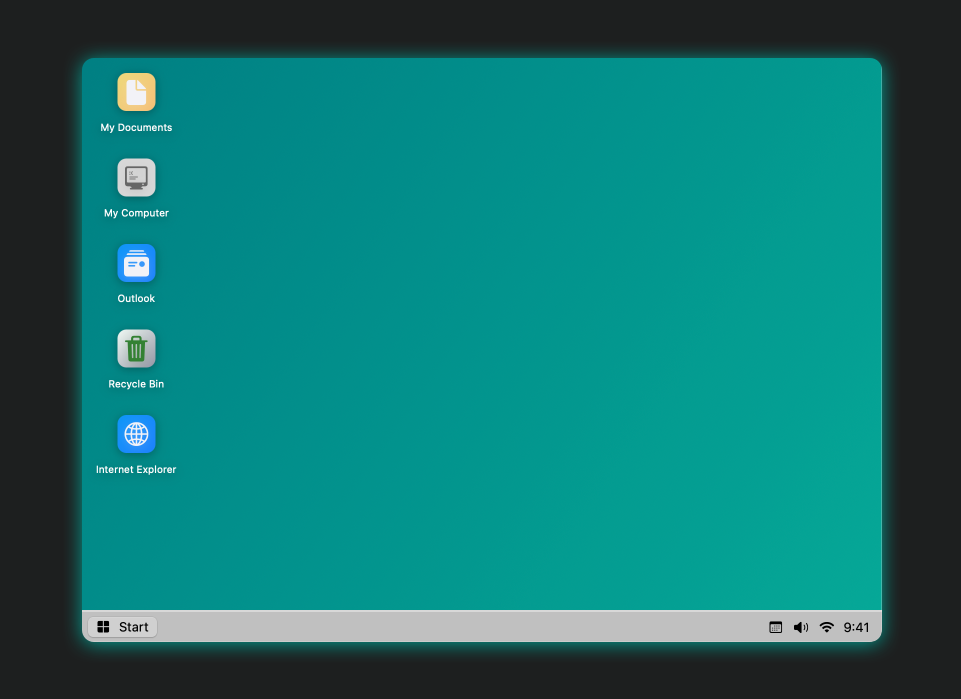
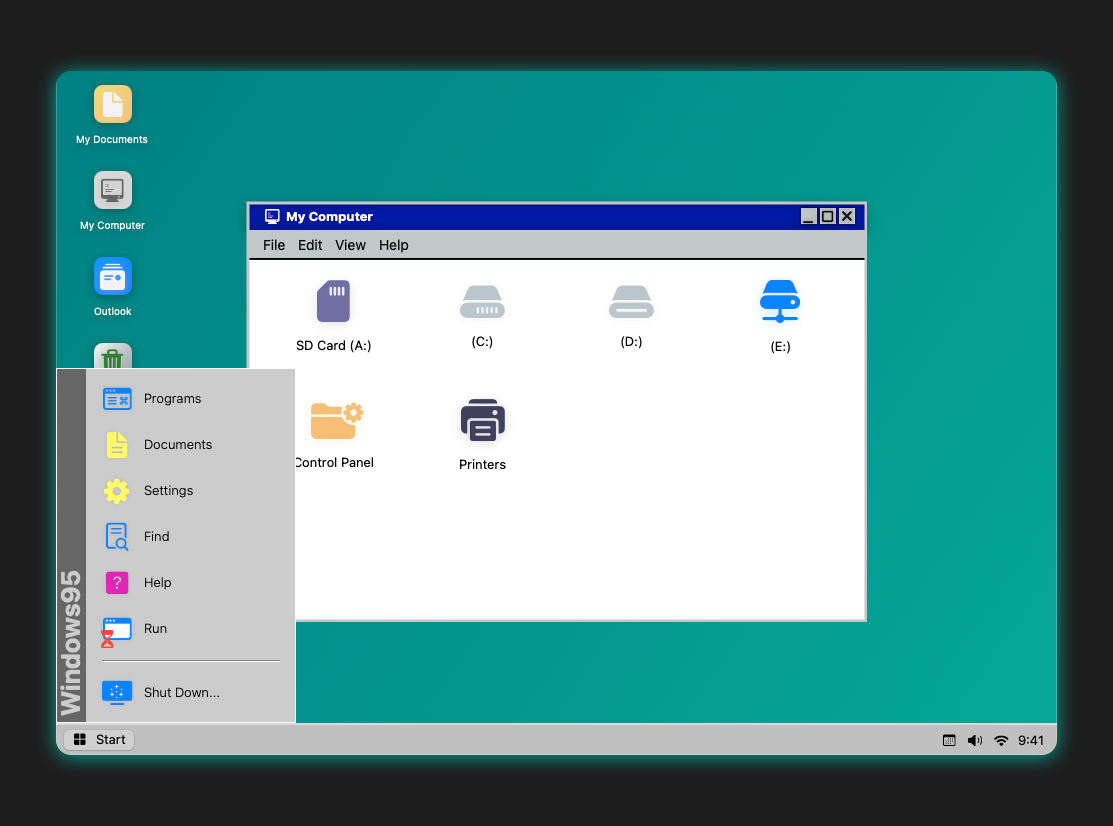
Added MyComputer Window 👨🏻💻

diff --git a/Shared/Toolbar.swift b/Shared/Toolbar.swift
@@ -1,0 +1,113 @@
+//
+//  Toolbar.swift
+//  Windows95
+//
+//  Created by armin on 1/13/21.
+//
+
+import SwiftUI
+
+struct Toolbar: View {
+    var title: String
+    var icon: String
+    
+    var body: some View {
+        VStack(spacing: 0) {
+            HStack(spacing: 4) {
+                Group {
+                    Image(systemName: icon)
+                        .font(.system(size: 15, weight: .semibold))
+                    Text(title)
+                        .font(.headline)
+                }
+                
+                Spacer()
+                
+                ToolbarControls()
+            }
+            .foregroundColor(.white)
+            .padding(.leading)
+            .padding(.trailing, 12)
+            .frame(height: 28)
+        }
+        .modifier(WindowBar())
+    }
+}
+
+struct ToolbarControls: View {
+    var body: some View {
+        HStack(spacing: 3) {
+            ToolbarControlIcon {
+                VStack {
+                    Spacer()
+                    Image(systemName: "minus")
+                        .font(.system(size: 12, weight: .bold))
+                        .foregroundColor(.black)
+                }
+            }
+            
+            ToolbarControlIcon {
+                Image(systemName: "square")
+                    .font(.system(size: 12, weight: .bold))
+                    .foregroundColor(.black)
+            }
+            
+            ToolbarControlIcon {
+                Image(systemName: "xmark")
+                    .font(.system(size: 12, weight: .bold))
+                    .foregroundColor(.black)
+            }
+        }
+    }
+}
+
+struct ToolbarControlIcon<Content: View>: View {
+    let content: () -> Content
+    
+    var body: some View {
+        Rectangle()
+            .overlay(
+                Rectangle()
+                    .foregroundColor(Color(#colorLiteral(red: 0.7601441741, green: 0.7803723216, blue: 0.7886850238, alpha: 1)))
+                    .padding(.all ,1)
+            )
+            .overlay(
+                content()
+            )
+            .foregroundColor(Color(#colorLiteral(red: 0.9185282588, green: 0.9185282588, blue: 0.9185282588, alpha: 1)))
+            .frame(width: 16, height: 16)
+            .shadow(radius: 2)
+            
+    }
+}
+
+struct WindowBar: ViewModifier {
+    func body(content: Content) -> some View {
+        content
+            .background(Color(#colorLiteral(red: 0.0072173113, green: 0.003170318436, blue: 0.6547220349, alpha: 1)))
+            .shadow(color: Color.black.opacity(0.2), radius: 8, x: 0, y: 4)
+            .overlay(
+                VStack(spacing: 0) {
+                    Rectangle()
+                        .frame(height: 2)
+                        .foregroundColor(Color.black.opacity(0.3))
+                    Rectangle()
+                        .frame(height: 3)
+                        .foregroundColor(Color.black.opacity(0.3))
+                        .blur(radius: 2)
+                    Spacer()
+                    Rectangle()
+                        .frame(height: 3)
+                        .foregroundColor(Color.black.opacity(0.3))
+                        .blur(radius: 4)
+                }
+            )
+    }
+}
+
+
+struct Toolbar_Previews: PreviewProvider {
+    static var previews: some View {
+        Toolbar(title: "My Computer", icon: "pc")
+    }
+}

diff --git a/Shared/MyComputer.swift b/Shared/MyComputer.swift
@@ -1,0 +1,85 @@
+//
+//  MyComputer.swift
+//  Windows95
+//
+//  Created by armin on 1/13/21.
+//
+
+import SwiftUI
+
+struct MyComputer: View {
+    @State var selection: Set<Int> = [0]
+        var body: some View {
+            Finder()
+                .frame(maxWidth: .infinity, maxHeight: .infinity)
+        }
+}
+
+struct Finder: View {
+    let columns = [
+        GridItem(.flexible()),
+        GridItem(.flexible()),
+        GridItem(.flexible()),
+        GridItem(.flexible())
+    ]
+
+    var body: some View {
+        VStack(spacing: 0) {
+            HStack(spacing: 12) {
+                Text("File")
+                Text("Edit")
+                Text("View")
+                Text("Help")
+                Spacer()
+            }
+            .foregroundColor(.black)
+            .font(.system(size: 14))
+            .padding(.horizontal)
+            .frame(height: 28)
+            .background(Color(#colorLiteral(red: 0.7560177445, green: 0.7843980193, blue: 0.7886149287, alpha: 1)))
+            
+            Divider()
+                .frame(height: 2)
+                .background(Color.black)
+            
+            ScrollView {
+                LazyVGrid(columns: columns, spacing: 40) {
+                    FolderItem(label: "SD Card (A:)", icon: "sdcard.fill", color: Color(#colorLiteral(red: 0.4352941176, green: 0.4352941176, blue: 0.6392156863, alpha: 1)))
+                    FolderItem(label: "(C:)", icon: "internaldrive.fill", color: Color(#colorLiteral(red: 0.737254902, green: 0.7803921569, blue: 0.8039215686, alpha: 1)))
+                    FolderItem(label: "(D:)", icon: "opticaldiscdrive.fill", color: Color(#colorLiteral(red: 0.737254902, green: 0.7803921569, blue: 0.8039215686, alpha: 1)))
+                    FolderItem(label: "(E:)", icon: "externaldrive.connected.to.line.below.fill", color: .blue)
+                    FolderItem(label: "Control Panel", icon: "folder.fill.badge.gear", color: Color(#colorLiteral(red: 0.9647058824, green: 0.7490196078, blue: 0.4666666667, alpha: 1)))
+                    FolderItem(label: "Printers", icon: "printer.fill.and.paper.fill", color: Color(#colorLiteral(red: 0.2509803922, green: 0.2509803922, blue: 0.3607843137, alpha: 1)))
+                }
+                .padding()
+            }
+        }
+        .background(Color.white)
+    }
+}
+
+struct FolderItem: View {
+    @State var label: String
+    @State var icon: String
+    @State var color: Color
+    
+    var body: some View {
+        VStack(spacing: 12) {
+            Image(systemName: icon)
+                .font(.system(size: 40))
+                .foregroundColor(color)
+                .shadow(color: color.opacity(0.2), radius: 5, x: 0, y: 2)
+            Text(label)
+                .font(.body)
+                .foregroundColor(.black)
+        }
+        .frame(width: 92)
+    }
+}
+
+struct MyComputer_Previews: PreviewProvider {
+    static var previews: some View {
+        MyComputer()
+    }
+}
+

diff --git a/Shared/Desktop.swift b/Shared/Desktop.swift
@@ -8,6 +8,9 @@
 import SwiftUI
 
 struct Desktop: View {
+    
+    @State var showMyComputer = false
+    
     var body: some View {
         ZStack {
             VStack {
@@ -16,6 +19,9 @@ struct Desktop: View {
                         DesktopIcon(label: "My Documents", icon: "doc.fill", color: Color(#colorLiteral(red: 0.9483403563, green: 0.9496279359, blue: 0.9689514041, alpha: 1)), backgroundColors: [Color(#colorLiteral(red: 0.9333333333, green: 0.8509803922, blue: 0.4823529412, alpha: 1)), Color(#colorLiteral(red: 0.9647058824, green: 0.7490196078, blue: 0.4666666667, alpha: 1))])
                         
                         DesktopIcon(label: "My Computer", icon: "pc", color: Color(#colorLiteral(red: 0.4, green: 0.4, blue: 0.4, alpha: 1)), backgroundColors: [Color(#colorLiteral(red: 0.8470588235, green: 0.8470588235, blue: 0.8470588235, alpha: 1))])
+                            .onTapGesture {
+                                showMyComputer.toggle()
+                            }
                         
                         DesktopIcon(label: "Outlook", icon: "mail.stack.fill", color: Color(#colorLiteral(red: 0.9483403563, green: 0.9496279359, blue: 0.9689514041, alpha: 1)), backgroundColors: [Color(#colorLiteral(red: 0.05490196078, green: 0.5921568627, blue: 0.9764705882, alpha: 1)), Color(#colorLiteral(red: 0.1137254902, green: 0.5058823529, blue: 0.9921568627, alpha: 1))])
                         
@@ -28,6 +34,13 @@ struct Desktop: View {
                 Spacer()
             }
             .padding()
+            
+            if showMyComputer {
+                Window(title: "My Computer", icon: "pc") {
+                    MyComputer()
+                }
+                .draggable()
+            }
         }
     }
 }

diff --git a/Shared/Window.swift b/Shared/Window.swift
@@ -1,0 +1,48 @@
+//
+//  Window.swift
+//  Windows95
+//
+//  Created by armin on 1/13/21.
+//
+
+import SwiftUI
+
+struct Window<Content: View>: View {
+    var title: String
+    var icon: String
+    let content: () -> Content
+    
+    var body: some View {
+        VStack(spacing: 0) {
+            Toolbar(title: title, icon: icon)
+            content()
+        }
+        .frame(width: 620, height: 420)
+        .background(Color.white)
+        .overlay(
+            Rectangle()
+                .stroke(Color(#colorLiteral(red: 0.7601441741, green: 0.7803723216, blue: 0.7886850238, alpha: 1)), lineWidth: 3)
+                .padding(1)
+        )
+    }
+}
+
+struct DraggableView: ViewModifier {
+    @State var offset = CGPoint(x: 0, y: 0)
+    
+    func body(content: Content) -> some View {
+        content
+            .gesture(DragGesture(minimumDistance: 0)
+                .onChanged { value in
+                    self.offset.x += value.location.x - value.startLocation.x
+                    self.offset.y += value.location.y - value.startLocation.y
+            })
+            .offset(x: offset.x, y: offset.y)
+    }
+}
+
+extension View {
+    func draggable() -> some View {
+        return modifier(DraggableView())
+    }
+}

diff --git a/README.md b/README.md
@@ -1,3 +1,5 @@
 #### Recreating Windows 95 Desktop UI using SwiftUI and SF Symbols 
 
 ![DESKTOP](Artboard.png)
+
+![DESKTOP](Artboard2.png)
